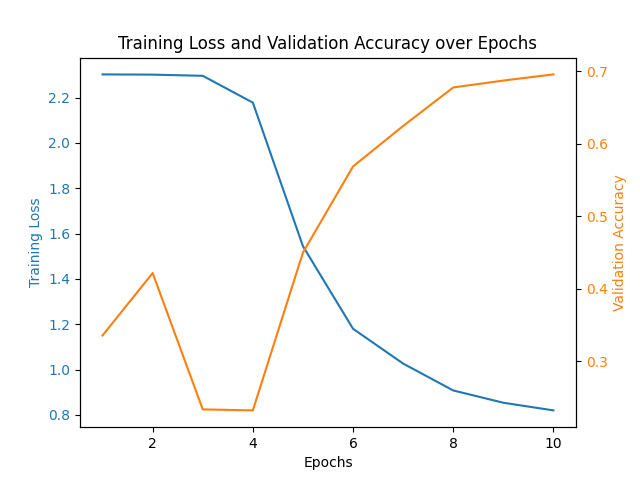
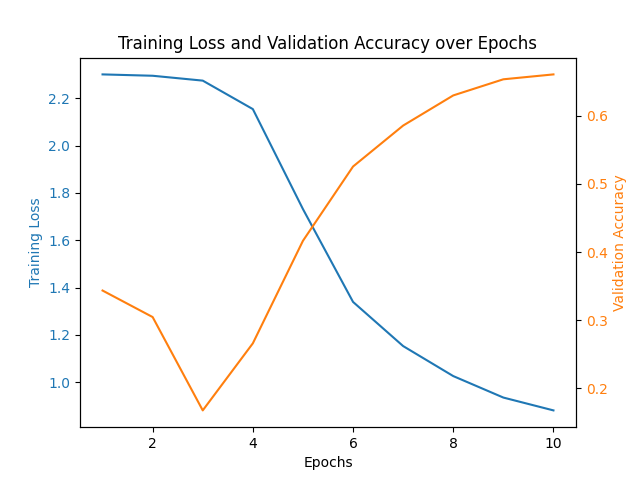
Added the experiment 1.

diff --git a/experiment-1.py b/experiment-1.py
@@ -1,0 +1,250 @@
+import numpy as np
+import matplotlib.pyplot as plt
+from torchvision import datasets
+import os
+
+
+class MLP:
+    def __init__(self, input_size, hidden_size1, hidden_size2, output_size, weight_scale):
+        # initializes weights and biases for each layer
+        self.has_hidden_layer2 = hidden_size2 > 0
+
+        # for 0 or 1 hidden layer:
+        self.W1 = np.random.randn(input_size, hidden_size1) * weight_scale
+        self.b1 = np.zeros((1, hidden_size1))
+
+        if self.has_hidden_layer2:
+            self.W2 = np.random.randn(hidden_size1, hidden_size2) * weight_scale
+            self.b2 = np.zeros((1, hidden_size2))
+
+        # output layer
+        self.W3 = np.random.randn(hidden_size2 if self.has_hidden_layer2 else hidden_size1, output_size) * weight_scale
+        self.b3 = np.zeros((1, output_size))
+
+    def forward(self, x):
+        # Forward pass through the network
+        self.x = x  # input for backpropagation
+        self.z1 = x @ self.W1 + self.b1  # Linear transformation for first layer
+        self.a1 = self.relu(self.z1)  # ReLU activation
+
+        if self.has_hidden_layer2:
+            self.z2 = self.a1 @ self.W2 + self.b2  # Linear transformation for second layer
+            self.a2 = self.relu(self.z2)  # ReLU activation
+            self.z3 = self.a2 @ self.W3 + self.b3  # Linear transformation for output layer
+        else:
+            self.z3 = self.a1 @ self.W3 + self.b3  # No second layer, directly to output
+
+        self.a3 = self.softmax(self.z3)  # Softmax to get class probabilities
+        return self.a3
+
+    def backward(self, y, lr):
+        # Backward pass for weight updates using gradient descent
+        m = y.shape[0]
+        y_one_hot = self.one_hot_encode(y, self.W3.shape[1])  # Converts labels to one-hot encoding
+
+        # Gradient for output layer
+        dz3 = self.a3 - y_one_hot
+        dw3 = (self.a2.T if self.has_hidden_layer2 else self.a1.T) @ dz3 / m
+        db3 = np.sum(dz3, axis=0, keepdims=True) / m
+
+        if self.has_hidden_layer2:
+            dz2 = (dz3 @ self.W3.T) * self.relu_deriv(self.z2)  # Gradient for second hidden layer
+            dw2 = (self.a1.T @ dz2) / m
+            db2 = np.sum(dz2, axis=0, keepdims=True) / m
+            dz1 = (dz2 @ self.W2.T) * self.relu_deriv(self.z1)  # Gradient for first hidden layer
+        else:
+            dz1 = (dz3 @ self.W3.T) * self.relu_deriv(self.z1)  # No second hidden layer
+
+        dw1 = (self.x.T @ dz1) / m
+        db1 = np.sum(dz1, axis=0, keepdims=True) / m
+
+        # Update weights and biases using gradient descent
+        self.W3 -= lr * dw3
+        self.b3 -= lr * db3
+        if self.has_hidden_layer2:
+            self.W2 -= lr * dw2
+            self.b2 -= lr * db2
+        self.W1 -= lr * dw1
+        self.b1 -= lr * db1
+
+    @staticmethod
+    def relu(x):
+        # ReLU activation
+        return np.maximum(0, x)
+
+    @staticmethod
+    def relu_deriv(x):
+        # derivation of ReLU activation for backpropagation
+        return (x > 0).astype(float)
+
+    @staticmethod
+    def softmax(x):
+        # softmax function normalizes outputs to probabilities
+        e_x = np.exp(x - np.max(x, axis=1, keepdims=True))  # exponentiates inputs
+        return e_x / np.sum(e_x, axis=1, keepdims=True)  # normalizes to get probabilities
+
+    @staticmethod
+    def one_hot_encode(y, num_classes):
+        # converts labels to one-hot encoded format
+        return np.eye(num_classes)[y]
+
+    @staticmethod
+    def cross_entropy_loss(y, y_hat):
+        # computes cross-entropy loss between true labels and predicted probabilities
+        m = y.shape[0]
+        m = y.shape[0]
+        eps = 1e-12
+        y_hat_clipped = np.clip(y_hat, eps, 1. - eps)
+        log_probs = -np.log(y_hat_clipped[np.arange(m), y])
+        return np.mean(log_probs)
+
+    def fit(self, x_train, y_train, x_val, y_val, lr, epochs, batch_size, number):
+        train_losses = []
+        val_accuracies = []
+
+        for epoch in range(1, epochs + 1):
+            perm = np.random.permutation(x_train.shape[0])  # Shuffle the training data
+            x_train_shuffled, y_train_shuffled = x_train[perm], y_train[perm]
+
+            epoch_loss = 0.0
+            num_batches = int(np.ceil(x_train.shape[0] / batch_size))
+
+            for i in range(num_batches):
+                start = i * batch_size
+                end = start + batch_size
+                x_batch = x_train_shuffled[start:end]  # batch of inputs
+                y_batch = y_train_shuffled[start:end]  # batch of labels
+
+                # Forward pass, backward pass, and weight update
+                self.forward(x_batch)
+                self.backward(y_batch, lr)
+
+                epoch_loss += self.cross_entropy_loss(y_batch, self.a3)  # updating the epoch loss
+
+            epoch_loss /= num_batches  # average loss is defined
+            train_losses.append(epoch_loss)
+
+            val_pred = self.predict(x_val)
+            val_acc = np.mean(val_pred == y_val)
+            val_accuracies.append(val_acc) \
+
+            print(f"Epoch {epoch:02d} | Training Loss: {epoch_loss:.4f} | Value Accuracy: {val_acc:.4f}")
+
+        self.plot_graph(train_losses, val_accuracies, number)
+        return val_accuracies[-1]
+
+    def plot_graph(self, train_losses, val_accuracies, number):
+        if not os.path.exists('results'):
+            os.makedirs('results')  # creates results director
+
+        fig, ax1 = plt.subplots()  # initializes the plot
+
+        ax1.set_xlabel('Epochs')
+        ax1.set_ylabel('Training Loss', color='tab:blue')
+        ax1.plot(range(1, len(train_losses) + 1), train_losses, color='tab:blue', label='Training Loss')
+        ax1.tick_params(axis='y', labelcolor='tab:blue')  # defines loss subplot
+
+        ax2 = ax1.twinx()
+        ax2.set_ylabel('Validation Accuracy', color='tab:orange')
+        ax2.plot(range(1, len(val_accuracies) + 1), val_accuracies, color='tab:orange', label='Validation Accuracy')
+        ax2.tick_params(axis='y', labelcolor='tab:orange')  # defines accuracy subplot
+
+        plt.title('Training Loss and Validation Accuracy over Epochs')
+
+        result_path = 'results/experiment-1-' + str(number) + '.png'  # defines the file name
+        fig.savefig(result_path)
+        print(f"Graph saved to: {result_path}")
+
+    def predict(self, x):  # predicts class labels for the input data
+        probs = self.forward(x)  # forwards pass to get probabilities
+        return np.argmax(probs, axis=1)  # returns the class with highest probability
+
+
+# acquiring the FashionMNIST dataset
+train_set = datasets.FashionMNIST(root='.', train=True, download=True)
+test_set = datasets.FashionMNIST(root='.', train=False, download=True)
+
+# preprocessing the data by flattening images and normalizing them.
+x_train = train_set.data.numpy().reshape(-1, 28 * 28).astype(np.float32) / 255.0
+y_train = train_set.targets.numpy()
+
+x_test = test_set.data.numpy().reshape(-1, 28 * 28).astype(np.float32) / 255.0
+y_test = test_set.targets.numpy()
+
+# MLP initialization (no hidden layers)
+mlp1 = MLP(
+    input_size=28 * 28,
+    hidden_size1=0,
+    hidden_size2=0,
+    output_size=10,
+    weight_scale=1e-2
+)
+
+# trains the model
+mlp1.fit(
+    x_train=x_train,
+    y_train=y_train,
+    x_val=x_test,
+    y_val=y_test,
+    lr=1e-2,
+    epochs=10,
+    batch_size=256,
+    number = 1
+)
+
+# tests the model
+test_pred1 = mlp1.predict(x_test)
+test_acc1 = np.mean(test_pred1 == y_test)
+print(f"\nFinal test accuracy: {test_acc1:.4f}")
+
+# MLP initialization (one hidden layer)
+mlp2 = MLP(
+    input_size=28 * 28,
+    hidden_size1=256,
+    hidden_size2=0,
+    output_size=10,
+    weight_scale=1e-2
+)
+
+# trains the model
+mlp2.fit(
+    x_train=x_train,
+    y_train=y_train,
+    x_val=x_test,
+    y_val=y_test,
+    lr=1e-2,
+    epochs=10,
+    batch_size=256,
+    number = 2
+)
+
+# tests the model
+test_pred2 = mlp2.predict(x_test)
+test_acc2 = np.mean(test_pred2 == y_test)
+print(f"\nFinal test accuracy: {test_acc2:.4f}")
+
+# MLP initialization (two hidden layers)
+mlp3 = MLP(
+    input_size=28 * 28,
+    hidden_size1=256,
+    hidden_size2=256,
+    output_size=10,
+    weight_scale=1e-2
+)
+
+# trains the model
+mlp3.fit(
+    x_train=x_train,
+    y_train=y_train,
+    x_val=x_test,
+    y_val=y_test,
+    lr=1e-2,
+    epochs=10,
+    batch_size=256,
+    number = 3
+)
+
+# tests the model
+test_pred3 = mlp3.predict(x_test)
+test_acc3 = np.mean(test_pred3 == y_test)
+print(f"\nFinal test accuracy: {test_acc3:.4f}")

diff --git a/multilayer-perceptron.py b/multilayer-perceptron.py
@@ -154,11 +154,11 @@ y_train = train_set.targets.numpy()
 x_test = test_set.data.numpy().reshape(-1, 28 * 28).astype(np.float32) / 255.0
 y_test = test_set.targets.numpy()
 
-# MLP Initialization
+# MLP initialization
 mlp = MLP(
     input_size=28 * 28,
-    hidden_size1=128,
-    hidden_size2=64,
+    hidden_size1=256,
+    hidden_size2=256,
     output_size=10,
     weight_scale=1e-2
 )
@@ -171,7 +171,7 @@ mlp.fit(
     y_val=y_test,
     lr=1e-2,
     epochs=10,
-    batch_size=128
+    batch_size=256
 )
 
 # tests the model
